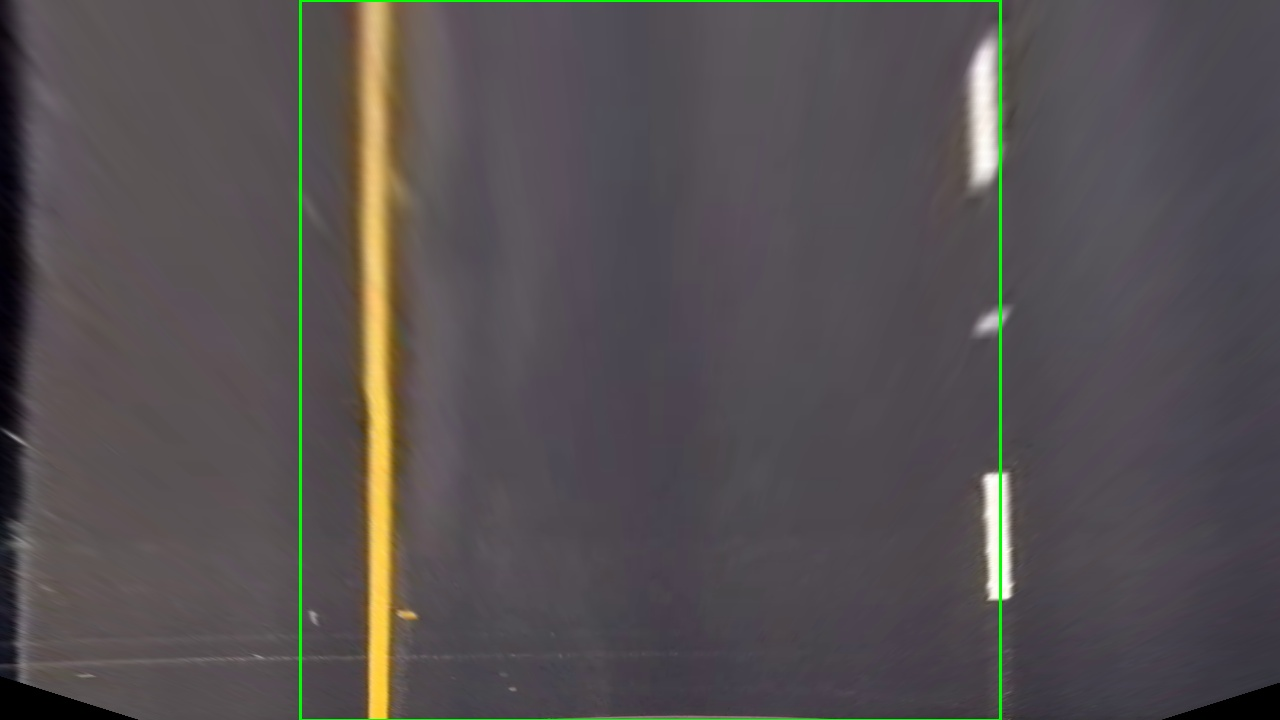
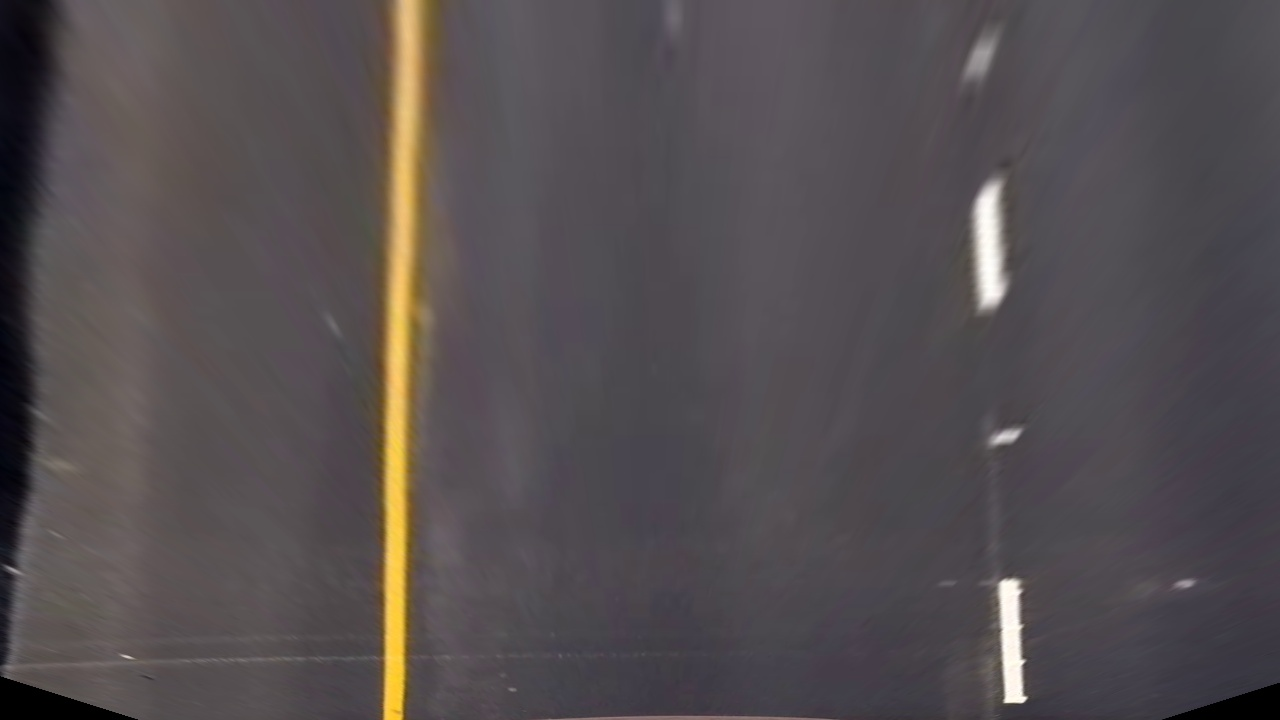
adding analysis results

diff --git a/src/LaneDetector/__main__.py b/src/LaneDetector/__main__.py
@@ -14,8 +14,8 @@ def main(arg_vars):
         # "bottomRight" : [ 1043, 680],
         # "bottomLeft"  : [260, 680]
         #-----------------------------
-        "topLeft"     : [ 560, 455],
-        "topRight"    : [ 720, 455],
+        "topLeft"     : [ 560, 465],
+        "topRight"    : [ 720, 465],
         "bottomRight" : [ 1080, 680],
         "bottomLeft"  : [200, 680]
     }
@@ -31,8 +31,8 @@ def main(arg_vars):
     print("extension: ", media_extension)
     supported_imgs = ["jpg", "png", "jpeg"]
     supported_videos = ["mp4"]
-    # detector = Pipeline(roiPoints, (1280, 720, 3))               
-    detector = Detector(roiPoints, (1280, 720, 3))               
+    detector = Pipeline(roiPoints, (1280, 720, 3))               
+    # detector = Detector(roiPoints, (1280, 720, 3))               
 
     if media_extension in supported_imgs:
         img = cv2.imread(media_path)

diff --git a/src/LaneDetector/utils/DetectionPipeline.py b/src/LaneDetector/utils/DetectionPipeline.py
@@ -95,7 +95,7 @@ class Pipeline(Detector):
         undist_frame = cv2.undistort(X, self.camMtx, self.dstCoeffs, None, self.camMtx)
         displayedFrame = undist_frame.copy()
         dstImg1 = cv2.warpPerspective(displayedFrame, self.roi2birdTransMtx, (1280, 720))
-        drawRoIPoly(displayedFrame, self.roiPoints)
+        # drawRoIPoly(displayedFrame, self.roiPoints)
 
         binaryLanes = Pipeline.getLaneMask(dstImg1, 33, 175)
         dstImg2, self.leftPoints, self.rightPoints = self.getLanePoints(binaryLanes, visualize=True)
@@ -105,4 +105,4 @@ class Pipeline(Detector):
         fullBoard = Pipeline.getPipeLineBoard(dstImg1, dstImg2, dstImg3, dstImg4, 0.5)
         detection = self.applyLaneMasks(X, dstImg2.astype("uint8"))
 
-        return displayedFrame#fullBoard
+        return dstImg1#fullBoard

diff --git a/src/LaneDetector/Detector.py b/src/LaneDetector/Detector.py
@@ -116,7 +116,7 @@ class Detector:
             roiPoints["topRight"],
             roiPoints["bottomRight"]
         ])
-        self.birdPoints = np.float32([[200, 0], [200, 720], [1000, 0], [1000, 720]])
+        self.birdPoints = np.float32([[300, 0], [300, 720], [1000, 0], [1000, 720]])
         # self.birdPoints = np.float32([[200, 0], [100, 680], [1180, 0], [1180, 680]])
         self.roi2birdTransMtx = cv2.getPerspectiveTransform(self.roiPoints, self.birdPoints)
         self.bird2roiTransMtx = cv2.getPerspectiveTransform(self.birdPoints, self.roiPoints)
